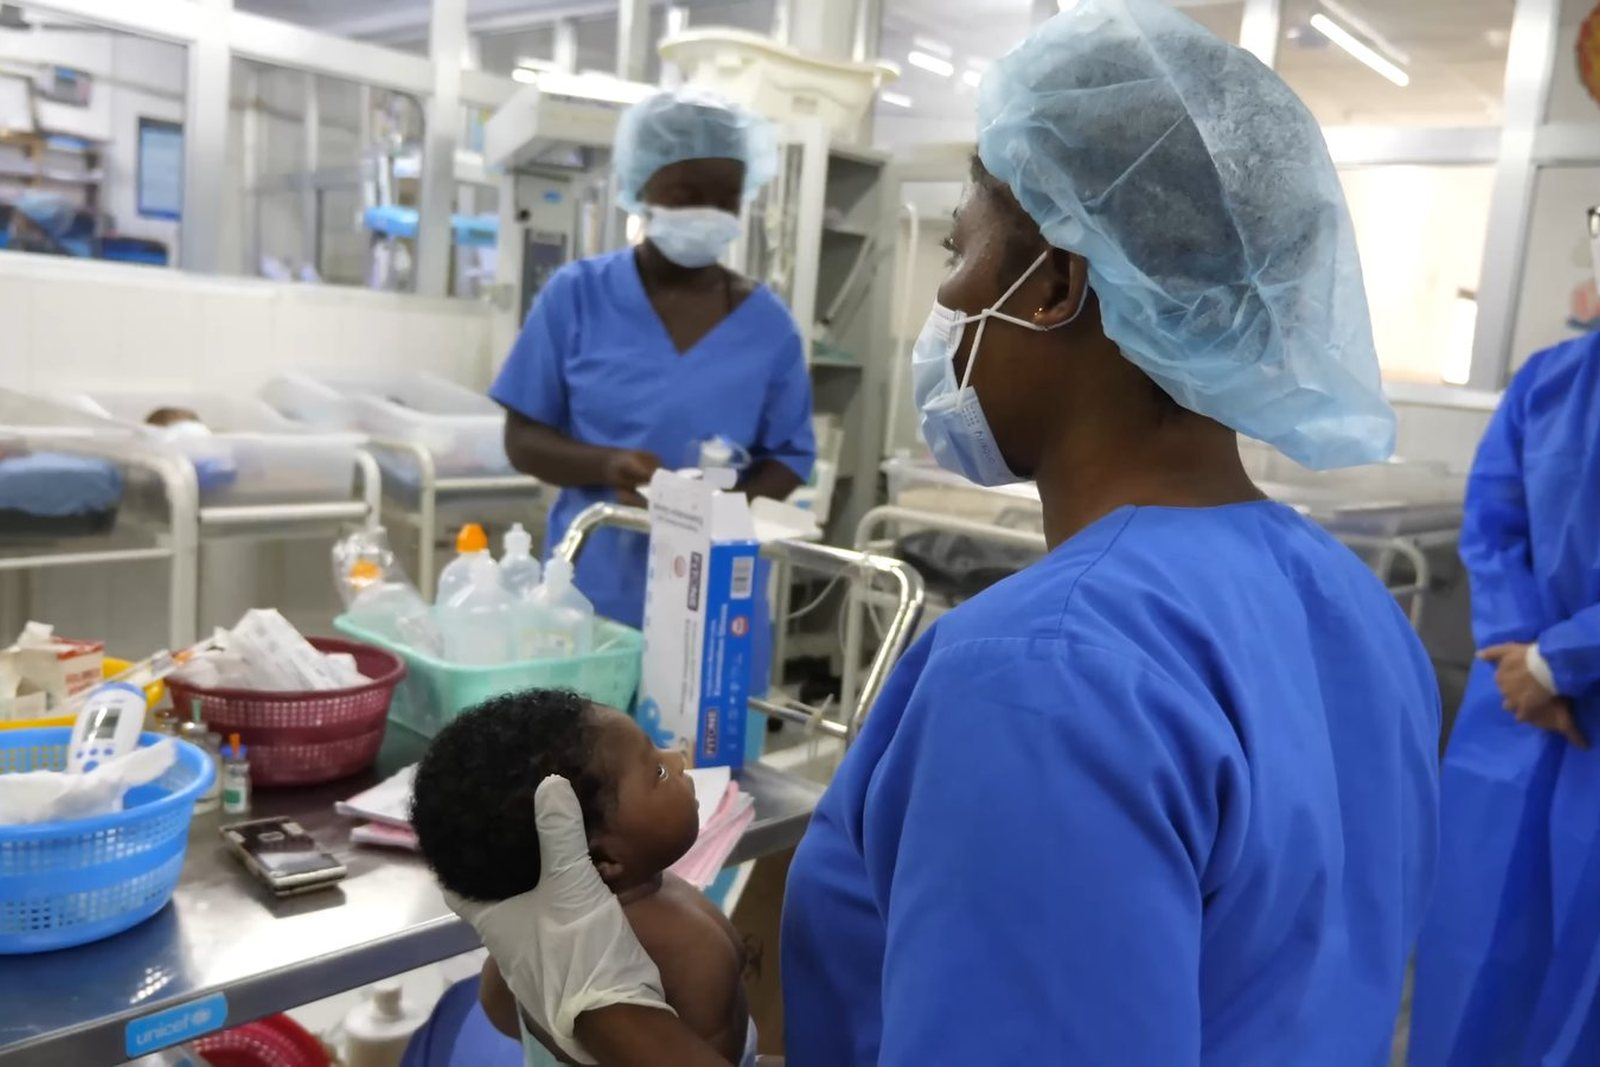
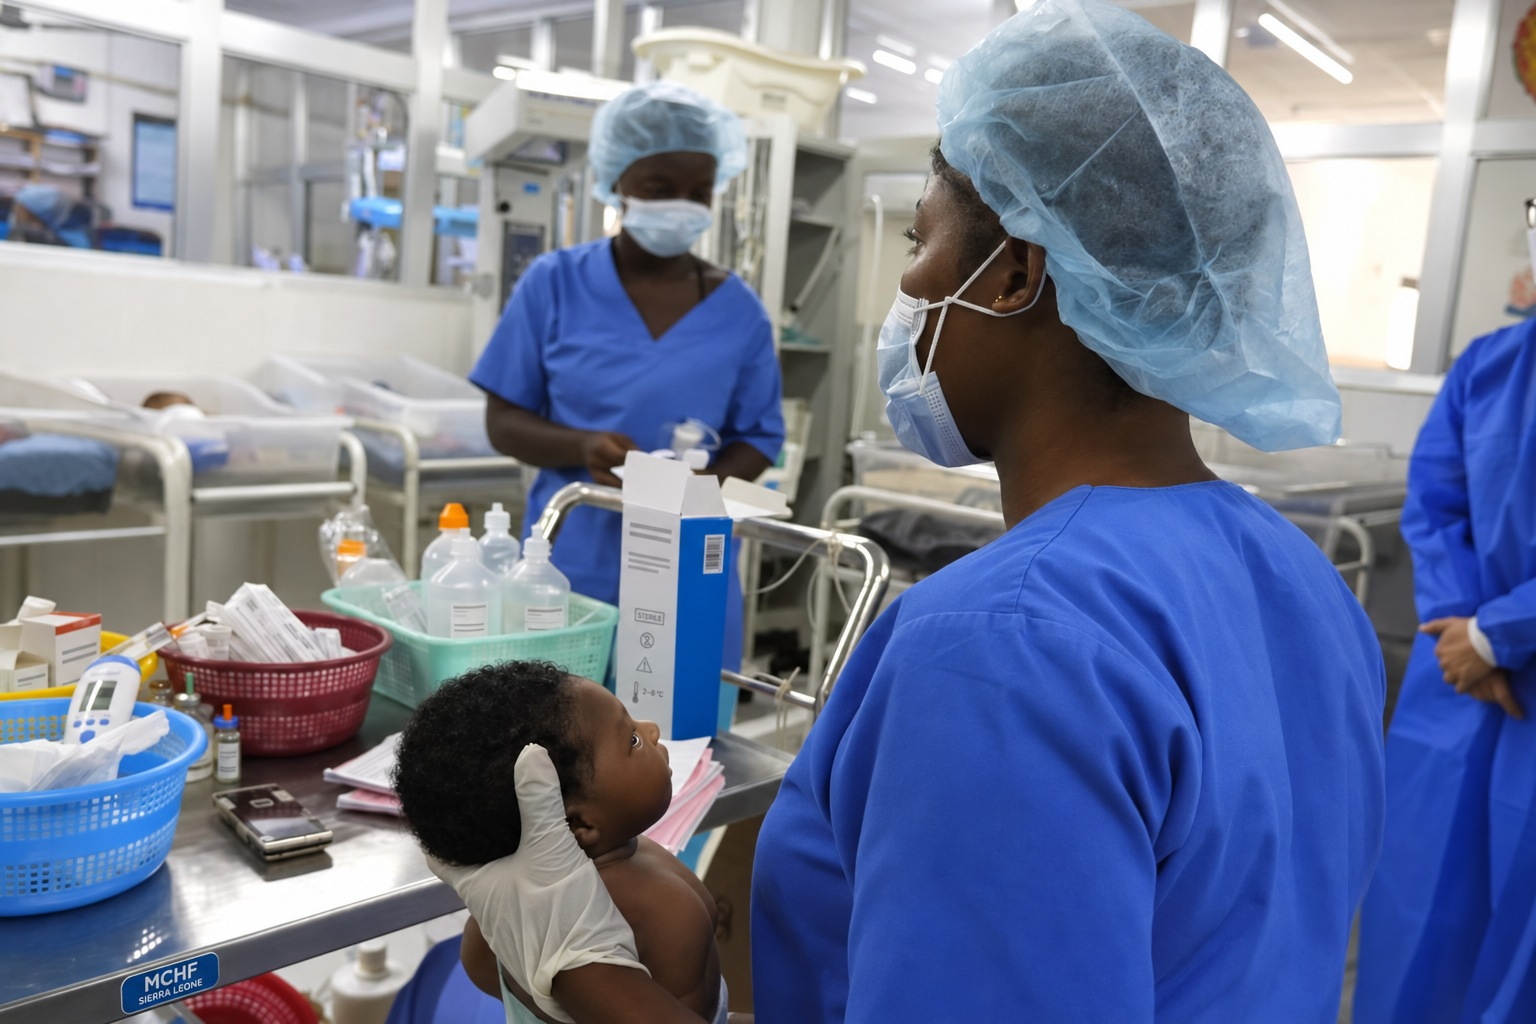
Update photos and captions with MCHF Sierra Leone branding

diff --git a/components/site/common.tsx b/components/site/common.tsx
@@ -13,7 +13,7 @@ export function PageHero({title,summary,eyebrow,parent,image,imageAlt,imageCapti
  const stock=stockImageFor(photo);
  const supplied=reviewImageFor(photo);
  const uploaded=photo?.startsWith('/api/media/');
- const sourceLabel=stock?(stock.kind==='stock'?'Stock photograph · '+stock.photographer:'Sierra Leone · '+stock.year+' · '+stock.photographer):uploaded?'':'Contextual photography';
+ const sourceLabel=stock?(stock.kind==='stock'?'MCHF · Programme imagery':'MCHF · Sierra Leone'):uploaded?'':'MCHF · Contextual photography';
  return <section className={'page-hero hero-tone-'+(visual?.tone||'blue')+' '+(photo?'with-image':'')}><div className='container'><Breadcrumbs title={eyebrow.toLowerCase().replace(/\b\w/g,c=>c.toUpperCase())} parent={parent}/><div className='page-hero-inner'><div><span className='eyebrow'>{eyebrow}</span><h1>{title}</h1><p>{summary}</p></div>{photo&&<figure className='page-hero-photo'><img src={photo} alt={imageAlt||supplied?.alt||(samePhoto&&visual?.alt?visual.alt:'Documentary public-health context')}/>{(!uploaded||imageCaption)&&<figcaption>{imageCaption||supplied?.caption||(samePhoto&&visual?.caption?visual.caption:'Public health, with people at the centre')}<span>{sourceLabel}</span></figcaption>}</figure>}</div></div></section>
 }
 export function ProgrammeGrid({records}:{records?:ContentRecord[]}={}){const list=records?records.filter(r=>r.kind==='programme').map((r,i)=>({...programmes.find(p=>p.slug===r.slug),slug:r.slug,number:String(i+1).padStart(2,'0'),title:r.title,subtitle:r.summary,image:r.image,interventions:r.meta.interventions||[]})):programmes;return <div className='programme-grid'>{list.map(p=><Link key={p.slug} className='programme-card' href={'/programmes/'+p.slug}>{p.image&&<img className='programme-card-photo' src={p.image} alt={reviewImageFor(p.image)?.alt||p.shortTitle||p.title} loading='lazy'/>}<span className='programme-number'>{p.number}</span><h3>{p.title}</h3><p>{p.subtitle}</p><ul className='programme-topics'>{p.interventions.slice(0,3).map((x:any)=><li key={x.title}>{x.title}</li>)}</ul><span className='programme-meta'>{p.interventions.length} strategic interventions</span><span className='text-link'>Explore programme <ArrowUpRight size={17}/></span></Link>)}</div>}

diff --git a/components/site/education-section.tsx b/components/site/education-section.tsx
@@ -15,7 +15,7 @@ export function LearningPanel({lesson}: {lesson: Lesson}) {
         </div>
         {lesson.image && <figure>
           <img src={lesson.image} alt={photo?.alt || lesson.title} loading='lazy'/>
-          {photo && <figcaption>Photo: <a href={photo.source} target='_blank' rel='noreferrer'>{photo.photographer}</a></figcaption>}
+          {photo && <figcaption>{photo.kind === 'documentary' ? 'MCHF · Sierra Leone' : 'MCHF · Programme imagery'} · <Link href='/image-credits'>Image credits</Link></figcaption>}
         </figure>}
       </div>
       <div className='education-cards'>
@@ -43,7 +43,7 @@ function StockPhotographyCredits() {
     <div className='container'>
       <span className='eyebrow'>PHOTOGRAPHY & ATTRIBUTION</span>
       <h2>People, care and collaboration.</h2>
-      <p className='learning-overview-intro'>Our image collection combines Sierra Leone documentary photographs with licensed stock photography. Stock images illustrate themes and are identified separately from photographs with a verified Sierra Leone location. Dates refer to the original photograph or source listing. They have been resized and cropped for display and do not document MCHF activities or imply endorsement by the people pictured.</p>
+      <p className='learning-overview-intro'>Our image collection combines Sierra Leone documentary photographs with licensed stock photography. Stock images illustrate themes and are identified separately from photographs with a verified Sierra Leone location. Dates refer to the original photograph or source listing. Selected banners, signs, clothing, badges and vehicles have AI-assisted edits replacing identifying names and third-party branding with MCHF / Sierra Leone text. These adaptations do not document MCHF activities, employment, ownership or sponsorship, or imply endorsement by the people pictured. Original photographers, sources and licences are credited below.</p>
       <div className='learning-overview-grid'>
         {Object.values(stockImages).map(photo => <figure className='photo-credit' key={photo.image}>
           <img src={photo.image} alt={photo.alt} loading='lazy'/>

diff --git a/README.md b/README.md
@@ -82,6 +82,8 @@ The website now has a Sierra Leone focus throughout, including a searchable `/si
 
 The image collection combines eight location-verified Sierra Leone documentary photographs with nine licensed Pexels stock photographs featuring Black people. The baseline homepage assigns a different photo to each of its 16 main photo placements; repeated use in the same page’s hero and learning section is avoided. Original board portraits are retained. Stock photography is clearly distinguished from Sierra Leone documentary imagery, and no stock location is invented. [`lib/stock-images.ts`](lib/stock-images.ts) and the `SOURCES.md` files under `public/images/stock/` and `public/images/sierra-leone/` record photographers, sources, dates and licences. `/image-credits` shows the full collection. Saved baseline content receives exact image replacements without changing staff-selected custom images or publication state.
 
+Selected image banners, signs, uniforms, badges and vehicles use AI-assisted MCHF / Sierra Leone branding edits. Seven existing photographs were adapted, retaining their subjects and scenes. Main-page photo labels use MCHF branding; original photographer and licence attribution, plus the adaptation notice, remain on `/image-credits` and in the source manifests. `design-assets/image-branding-edits.json` records each target and the exact built-in image tool prompt. Originals are also retained locally under `work/image-branding-originals/`.
+
 Shared presentation fixes in `app/site-polish.css` keep resource photographs above the card text, give programme cards and page heroes consistent photo proportions, let programme navigation wrap on phones, and align collection filters and inquiry fields across desktop and mobile layouts.
 
 Original source DOCX/PPTX files remain local and ignored by Git, following the code-only publication scope. Public document links require their corresponding approved assets in the hosting environment.

diff --git a/public/images/sierra-leone/SOURCES.md b/public/images/sierra-leone/SOURCES.md
@@ -2,6 +2,9 @@
 
 Photographs are resized for the website and cropped by the page layout. Source credits do not imply endorsement or identify pictured people as MCHF beneficiaries. Stock photographs illustrate programme themes and are not presented as Sierra Leone locations.
 
+## MCHF branding edits · 5 November 2026
+The rural-health-promotion, koidu-newborn-care, kenema-health-worker-transport, community-dialogue and community-theatre-mile-91 images have AI-assisted edits to remove identifying names and third-party branding and introduce MCHF / Sierra Leone text. They are adapted illustrations based on the original photographs credited below; the added branding does not document MCHF ownership, employment, sponsorship or activities. Original source and licence attribution is retained.
+
 ## mother-and-child.jpg
 Alicia Clark / USAID · Sierra Leone · 2016
 Source: https://commons.wikimedia.org/wiki/File:Sierra_Leone_Ebola_Recovery,_Community_Engagment_and_Health_Posts_(25166400034).jpg

diff --git a/public/images/stock/SOURCES.md b/public/images/stock/SOURCES.md
@@ -2,6 +2,9 @@
 
 Photographs are resized for the website and cropped by the page layout. Source credits do not imply endorsement or identify pictured people as MCHF beneficiaries. Stock photographs illustrate programme themes and are not presented as Sierra Leone locations.
 
+## MCHF branding edit · 5 November 2026
+The frontline-nurse image has an AI-assisted edit replacing identifying badge text with MCHF / Sierra Leone branding. This is an illustrative adaptation and does not identify the pictured person as MCHF staff or establish a Sierra Leone location. Original photographer and licence attribution is retained below.
+
 ## microscope-research.jpg
 Artem Podrez · Stock photography; location not specified · 2020
 Source: https://www.pexels.com/photo/a-man-looking-through-the-microscope-5726708/
